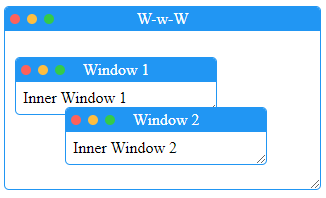
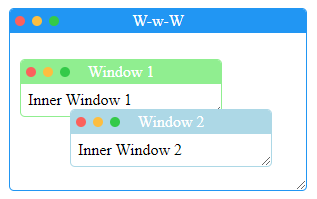
Fixed W-w-W drag issue.

Changed region(s): [[0.0, 0.0303, 0.9937, 0.9697]]

diff --git a/divWindow.js b/divWindow.js
@@ -22,6 +22,12 @@ class DivWindow {
     constructor(id, options) {
         this.minimizedState = false;
         this.maximizedState = false;
+        this.CAPTION_HEIGHT = 24;
+        this.MINIMIZED_WIDTH = "200px";
+        this.MINIMIZED_HEIGHT = "23px";
+        this.MAXIMIZED_WIDTH = "99%";
+        this.MAXIMIZED_HEIGHT = "99%";
+        this.MAXIMIZED_PADDING = "3px";
         // inline block automatically sizes the div the the extents of the inner content.
         // https://stackoverflow.com/a/33026219
         this.template = '\
@@ -57,13 +63,16 @@ class DivWindow {
     }
     setCaption(caption) {
         document.getElementById(this.idWindowCaption).innerHTML = caption;
+        return this;
     }
     setColor(color) {
         this.dw.style.setProperty("border", `1px solid ${color}`);
         this.dwc.style.setProperty("background-color", color);
+        return this;
     }
     setContent(html) {
         document.getElementById(this.idWindowContent).innerHTML = html;
+        return this;
     }
     getPosition() {
         return new DivWindowPosition(this.dw.offsetLeft, this.dw.offsetTop);
@@ -95,7 +104,7 @@ class DivWindow {
     }
     minimize(atPosition = false) {
         this.saveState();
-        this.dw.style.height = "23px";
+        this.dw.style.height = this.MINIMIZED_HEIGHT;
         this.dw.style.setProperty("resize", "none");
         this.minimizedState = true;
         this.maximizedState = false;
@@ -103,7 +112,7 @@ class DivWindow {
             const minTop = (window.innerHeight || document.documentElement.clientHeight || document.body.clientHeight) - 25;
             const left = this.findAvailableMinimizedSlot(minTop);
             // Force minimized window when moving to bottom to have a fixed width.
-            this.dw.style.width = "200px";
+            this.dw.style.width = this.MINIMIZED_WIDTH;
             this.dw.style.top = minTop + "px";
             this.dw.style.left = left + "px";
             // Should we disable dragging when minimized at the bottom?
@@ -112,10 +121,15 @@ class DivWindow {
     }
     maximize() {
         this.saveState();
-        this.dw.style.left = "3px";
-        this.dw.style.top = "3px";
-        this.dw.style.width = "99%";
-        this.dw.style.height = "99%";
+        // 0, 0, 100%, 100% results in scrollbars.  Ugh.
+        this.dw.style.left = this.MAXIMIZED_PADDING;
+        this.dw.style.top = this.MAXIMIZED_PADDING;
+        this.dw.style.width = this.MAXIMIZED_WIDTH;
+        this.dw.style.height = this.MAXIMIZED_HEIGHT;
+        //this.dw.style.left = "0px";
+        //this.dw.style.top = "0px";
+        //this.dw.style.width = "100%";
+        //this.dw.style.height = "100%";
         this.dw.style.setProperty("resize", "none");
         this.maximizedState = true;
         this.minimizedState = false;
@@ -207,9 +221,18 @@ class DivWindow {
         this.updateMousePosition(e);
     }
     contain(dwx, dwy) {
+        let el = this.dw.parentElement.parentElement;
+        let offsety = 0;
+        // DivWindow within DivWindow?
+        if (el.id.includes("_windowContent")) {
+            // If so, get the parent container, not the content area.
+            el = el.parentElement;
+            // Account for the caption:
+            offsety = this.CAPTION_HEIGHT;
+        }
         dwx = dwx < 0 ? 0 : dwx;
-        dwy = dwy < 0 ? 0 : dwy;
-        const el = this.dw.parentElement.parentElement;
+        dwy = dwy < offsety ? offsety : dwy;
+        // Constrained within a parent?
         if (el.localName !== "body") {
             if (dwx + this.dw.offsetWidth >= el.offsetWidth) {
                 dwx = el.offsetWidth - this.dw.offsetWidth - 1;
@@ -289,7 +312,7 @@ window.onload = () => {
     new DivWindow("www")
         .setPosition("50px", "300px")
         .setSize("400px", "400px")
-        .create("innerwindow1").setPosition("10px", "50px")
-        .create("innerwindow2").setPosition("60px", "100px");
+        .create("innerwindow1").setPosition("10px", "50px").setColor("#90EE90")
+        .create("innerwindow2").setPosition("60px", "100px").setColor("#add8e6");
 };
 //# sourceMappingURL=divWindow.js.map

diff --git a/divWindow.ts b/divWindow.ts
@@ -47,6 +47,13 @@ class DivWindow {
     protected idMinimize: string;
     protected idMaximize: string;
 
+    CAPTION_HEIGHT = 24;
+    MINIMIZED_WIDTH = "200px";
+    MINIMIZED_HEIGHT = "23px";
+    MAXIMIZED_WIDTH = "99%";
+    MAXIMIZED_HEIGHT = "99%";
+    MAXIMIZED_PADDING = "3px";
+
     // inline block automatically sizes the div the the extents of the inner content.
     // https://stackoverflow.com/a/33026219
     protected template = '\
@@ -86,17 +93,23 @@ class DivWindow {
         return newdw;
     }
 
-    public setCaption(caption: string): void {
+    public setCaption(caption: string): DivWindow {
         document.getElementById(this.idWindowCaption).innerHTML = caption;
+
+        return this;
     }
 
-    public setColor(color: string): void {
+    public setColor(color: string): DivWindow {
         this.dw.style.setProperty("border", `1px solid ${color}`);
         this.dwc.style.setProperty("background-color", color);
+
+        return this;
     }
 
-    public setContent(html: string): void {
+    public setContent(html: string): DivWindow {
         document.getElementById(this.idWindowContent).innerHTML = html;
+
+        return this;
     }
 
     public getPosition(): DivWindowPosition {
@@ -141,7 +154,7 @@ class DivWindow {
 
     public minimize(atPosition = false): DivWindow {
         this.saveState();
-        this.dw.style.height = "23px";
+        this.dw.style.height = this.MINIMIZED_HEIGHT;
         this.dw.style.setProperty("resize", "none");
         this.minimizedState = true;
         this.maximizedState = false;
@@ -151,7 +164,7 @@ class DivWindow {
             const left = this.findAvailableMinimizedSlot(minTop);
 
             // Force minimized window when moving to bottom to have a fixed width.
-            this.dw.style.width = "200px";      
+            this.dw.style.width = this.MINIMIZED_WIDTH;
             this.dw.style.top = minTop + "px";
             this.dw.style.left = left + "px";
 
@@ -163,10 +176,17 @@ class DivWindow {
 
     public maximize(): DivWindow {
         this.saveState();
-        this.dw.style.left = "3px";
-        this.dw.style.top = "3px";
-        this.dw.style.width = "99%"; 
-        this.dw.style.height = "99%";
+        // 0, 0, 100%, 100% results in scrollbars.  Ugh.
+        this.dw.style.left = this.MAXIMIZED_PADDING;
+        this.dw.style.top = this.MAXIMIZED_PADDING;
+        this.dw.style.width = this.MAXIMIZED_WIDTH; 
+        this.dw.style.height = this.MAXIMIZED_HEIGHT;
+
+        //this.dw.style.left = "0px";
+        //this.dw.style.top = "0px";
+        //this.dw.style.width = "100%";
+        //this.dw.style.height = "100%";
+
         this.dw.style.setProperty("resize", "none");
         this.maximizedState = true;
         this.minimizedState = false;
@@ -278,11 +298,22 @@ class DivWindow {
     }
 
     protected contain(dwx: number, dwy: number): DivWindowPosition {
+        let el = this.dw.parentElement.parentElement;
+        let offsety = 0;
+
+        // DivWindow within DivWindow?
+        if (el.id.includes("_windowContent")) {
+            // If so, get the parent container, not the content area.
+            el = el.parentElement;
+
+            // Account for the caption:
+            offsety = this.CAPTION_HEIGHT;
+        }
+
         dwx = dwx < 0 ? 0 : dwx;
-        dwy = dwy < 0 ? 0 : dwy;
+        dwy = dwy < offsety ? offsety : dwy;
 
-        const el = this.dw.parentElement.parentElement;
-
+        // Constrained within a parent?
         if (el.localName !== "body") {
 
             if (dwx + this.dw.offsetWidth >= el.offsetWidth) {
@@ -385,6 +416,6 @@ window.onload = () => {
     new DivWindow("www")
         .setPosition("50px", "300px")
         .setSize("400px", "400px")
-        .create("innerwindow1").setPosition("10px", "50px")
-        .create("innerwindow2").setPosition("60px", "100px");
+        .create("innerwindow1").setPosition("10px", "50px").setColor("#90EE90")
+        .create("innerwindow2").setPosition("60px", "100px").setColor("#add8e6");
 };

diff --git a/Article/index.htm b/Article/index.htm
@@ -28,26 +28,30 @@ did I want to bring in a large package like <a href="https://www.jqwidgets.com/"
 jqWidgets</a> or similar web UI simply for this one feature.&nbsp; So, time to 
 invent the wheel again except this time make it more like a smooth round wheel 
 rather than something roughly hewn from a rock.</p>
-<h3>Key Points</h3>
-<p>1: Windows are sizeable and draggable:</p>
+<h2>Key Features</h2>
+<h3>Windows are sizeable and draggable</h3>
 <p><img border="0" src="point1.png" width="426" height="72"></p>
-<p>2: Windows are maximizable (screenshot here is clipped to the right):</p>
+<h3>Windows are maximizable </h3>
+<p>screenshot here is clipped to the right:</p>
 <p><img border="0" src="point2.png" width="467" height="159"></p>
-<p>3: Windows are minimizable to the bottom of the screen:</p>
+<h3>Windows are minimizable to the bottom of the screen</h3>
 <p><img border="0" src="point3.png" width="613" height="33"></p>
-<p>4: Windows are minimizable in place:</p>
+<h3>Windows are minimizable in place</h3>
 <p><img border="0" src="point4.png" width="502" height="127"></p>
-<p>5: Complete control of the close, minimize, and maximize buttons:</p>
+<h3>Complete control of the close, minimize, and maximize buttons</h3>
 <p><img border="0" src="point5.png" width="236" height="83"></p>
-<p>6: Automatic topmost when clicking on the header -- compare with the screenshot 
-at the top of the article:</p>
+<h3>Automatic topmost when clicking on the header</h3>
+<p>Compare with the screenshot 
+at the top of the article.</p>
 <p><img border="0" src="point6.png" width="375" height="283"></p>
-<p>7: Windows are contained within their wrapper div.&nbsp; Here the inner 
-windows are constrained to live within the outer div:</p>
+<h3>Windows are contained within their wrapper div</h3>
+<p>Here the inner windows are constrained to live within the outer div:</p>
 <p><img border="0" src="point7.png" width="612" height="412"></p>
-<p>8: Given point #7, we can have windows within windows, again constrained by 
-the outer window size:</p>
-<p><img border="0" src="point8.png" width="326" height="198"></p>
+<h3>Windows within windows</h3>
+<p><img border="0" src="point8.png" width="317" height="199"></p>
+<h3>Window state can persisted between sessions</h3>
+<p>You can save and reload the DivWindow states (position, size, state) for the 
+entire document or a container.</p>
 <h2>DivWindow Class API</h2>
 <p>The public methods provide for a reasonable amount of control over the 
 DivWindow and these are self-explanatory.&nbsp; Except for the &quot;get&quot; functions, 
@@ -108,6 +112,8 @@ functions above):</p>
 	DivWindows will not adjust to remain constrained.</li>
 	<li>A window caption that is too long will collide with the 
 	close/minimize/maximize buttons.</li>
+	<li>I have a kludge when maximizing the window to avoid scrollbars.</li>
+	<li>DivWindows within DivWindows within DivWindows is not supported.</li>
 </ul>
 <p>&nbsp;</p>
 
